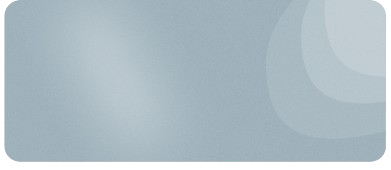
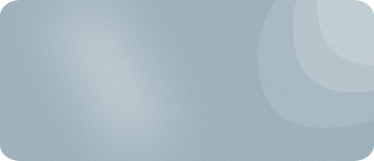
minor

Changed region(s): [[0.0, 0.0, 1.0, 1.0]]

diff --git a/src/app/shared/components/bank-account-cards/bank-account-card/bank-account-card.component.scss b/src/app/shared/components/bank-account-cards/bank-account-card/bank-account-card.component.scss
@@ -14,7 +14,7 @@
     background: url('../../../../../assets/images/personal-card-bg.png') no-repeat bottom;
     background-size: 100% 100%;
     box-shadow: 3px 10px 8px colors.$transparent-pearl-grey;
-    border-radius: 8px;
+    border-radius: 14px;
     z-index: 999;
   }
 
@@ -30,7 +30,7 @@
     background: url('../../../../../assets/images/personal-card-bg.png') no-repeat bottom;
     background-size: 100% 100%;
     box-shadow: 0px 2px 8px colors.$transparent-pearl-grey;
-    border-radius: 8px;
+    border-radius: 14px;
     z-index: 999;
   }
 
